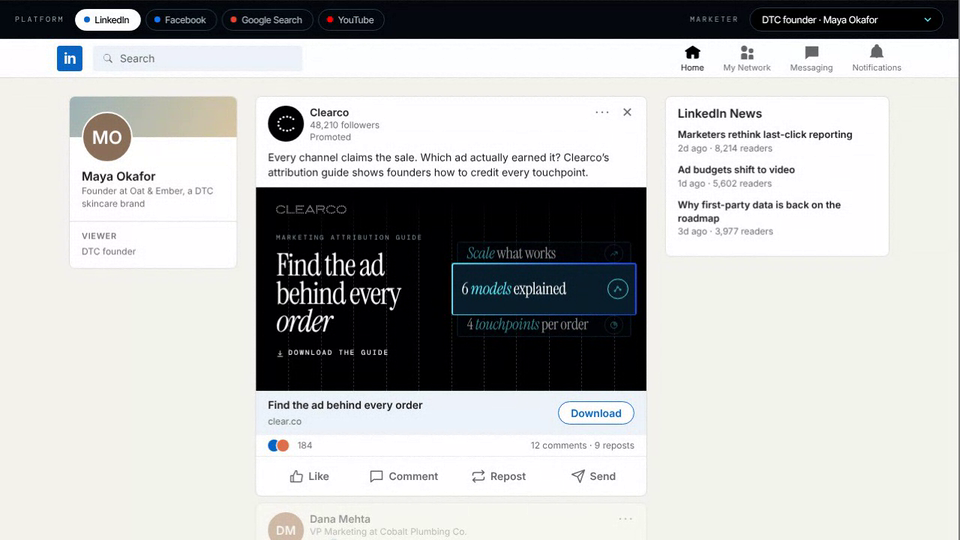
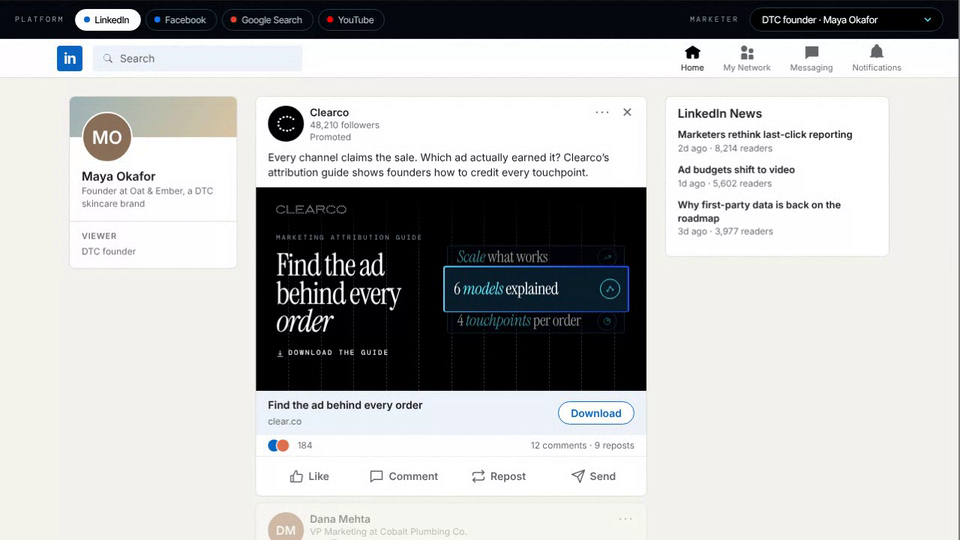
Clearco Paid Ad Pipeline: equal-height value chips nudged left, bigger tighter Learn more text on the Facebook ad
Claude-Session: https://claude.ai/code/session_01AHeBdxfESGkB61WPERPkmT

Changed region(s): [[0.4375, 0.4444, 0.6875, 0.6222]]

diff --git a/clearco-paid-ad-pipeline/index.html b/clearco-paid-ad-pipeline/index.html
@@ -60,22 +60,22 @@ nav.back span{color:#6e6e6e}nav.back b{font-weight:500;color:#fff;overflow:hidde
 .cr .stage{position:absolute;right:0;top:0;width:50cqw;height:100%;container-type:inline-size}
 .cr .stage>*{pointer-events:none}
 /* the three cards as a rolodex: the middle one is the prominent one; each step the bottom card moves up to the middle, the middle to the top, and the top fades out and returns at the bottom */
-.cr .bl{position:absolute;left:0;right:5cqw;top:50%;height:21cqw;margin-top:-10.5cqw;display:flex;align-items:center;background:rgba(4,10,16,.94);border:1px solid #24465c;border-radius:3px;padding:0 17cqw 0 5cqw;color:#fff;opacity:0;transform:translateY(22cqw) scale(.9);transition:transform 1.1s cubic-bezier(.45,0,.15,1),height 1.1s cubic-bezier(.45,0,.15,1),margin-top 1.1s cubic-bezier(.45,0,.15,1),opacity .9s ease,background .9s}
+.cr .bl{position:absolute;left:-4cqw;right:9cqw;top:50%;height:24cqw;margin-top:-12cqw;display:flex;align-items:center;background:rgba(4,10,16,.94);border:1px solid #24465c;border-radius:3px;padding:0 17cqw 0 5cqw;color:#fff;opacity:0;transform:translateY(20cqw) scale(.9);transition:transform 1.1s cubic-bezier(.45,0,.15,1),opacity .9s ease,background .9s}
 .cr .bl>div{transition:transform 1.1s cubic-bezier(.45,0,.15,1)}
-.cr .bl[data-p="0"]{transform:translateY(-14.5cqw) scale(.94);opacity:.55}
-.cr .bl[data-p="0"]>div{transform:translateY(-4cqw)}
-.cr .bl[data-p="1"]{height:27cqw;margin-top:-13.5cqw;transform:none;opacity:1;background:rgba(10,30,44,.97);z-index:2}
-.cr .bl[data-p="2"]{transform:translateY(14.5cqw) scale(.94);opacity:.55}
-.cr .bl[data-p="2"]>div{transform:translateY(4cqw)}
-.cr .bl[data-p="x"]{transform:translateY(-24cqw) scale(.9);opacity:0}
-.cr .bl[data-p="x"]>div{transform:translateY(-4cqw)}
+.cr .bl[data-p="0"]{transform:translateY(-11cqw) scale(.96);opacity:.55}
+.cr .bl[data-p="0"]>div{transform:translateY(-5.5cqw)}
+.cr .bl[data-p="1"]{transform:none;opacity:1;background:rgba(10,30,44,.97);z-index:2}
+.cr .bl[data-p="2"]{transform:translateY(11cqw) scale(.96);opacity:.55}
+.cr .bl[data-p="2"]>div{transform:translateY(5.5cqw)}
+.cr .bl[data-p="x"]{transform:translateY(-22cqw) scale(.9);opacity:0}
+.cr .bl[data-p="x"]>div{transform:translateY(-5.5cqw)}
 .cr .bl[data-p="r"]{transition:none}
 .cr .bl[data-p="r"]>div{transition:none}
 .cr .bl::before{content:"";position:absolute;inset:-1px;border-radius:inherit;padding:1.5px;background:linear-gradient(90deg,#2447f5,#3b8cff 25%,#62e6f3 50%,#3b8cff 75%,#2447f5) 0 0/200% 100%;-webkit-mask:linear-gradient(#000 0 0) content-box,linear-gradient(#000 0 0);-webkit-mask-composite:xor;mask:linear-gradient(#000 0 0) content-box exclude,linear-gradient(#000 0 0);opacity:0;transition:opacity .9s ease;pointer-events:none;animation:flow 6s linear infinite}
 .cr .bl[data-p="1"]::before{opacity:1}
 @keyframes flow{to{background-position:-200% 0}}
 .cr .bl[data-p="1"] .ic{border-color:var(--cyan)}
-.cr .bl[data-p="0"] .ic,.cr .bl[data-p="x"] .ic{top:calc(50% - 4cqw)}.cr .bl[data-p="2"] .ic{top:calc(50% + 4cqw)}
+.cr .bl[data-p="0"] .ic,.cr .bl[data-p="x"] .ic{top:calc(50% - 5.5cqw)}.cr .bl[data-p="2"] .ic{top:calc(50% + 5.5cqw)}
 @media(prefers-reduced-motion:reduce){.cr .bl,.cr .bl::before{transition:none;animation:none}}
 .cr .bl .ic{position:absolute;right:4cqw;top:50%;width:10.5cqw;height:10.5cqw;transform:translateY(-50%);padding:2.5cqw;border:1px solid #2b3d52;border-radius:50%;transition:border-color .9s,top 1.1s cubic-bezier(.45,0,.15,1);color:var(--cyan)}
 .cr .bl strong{display:block;font:400 8.6cqw/1.02 var(--serif);letter-spacing:-.02em}
@@ -90,8 +90,8 @@ nav.back span{color:#6e6e6e}nav.back b{font-weight:500;color:#fff;overflow:hidde
 .cr.sq .lg2{position:absolute;right:6cqw;top:5.4cqw;width:25.7cqw;aspect-ratio:978.8/116.8;height:auto;fill:#fff;z-index:2}
 .cr.sq h4{position:absolute;left:11.4cqw;top:15.6cqw;margin:0;z-index:2;font:400 13.4cqw/.915 var(--serif);letter-spacing:-.04em;white-space:nowrap;color:#fff}
 .cr.sq h4 i{font-style:italic}
-.cr.sq .go2{position:absolute;left:11.7cqw;top:80.6cqw;z-index:2;display:flex;flex-direction:column;gap:1.6cqw;font:400 2cqw/1.5 var(--mono);letter-spacing:.2em;text-transform:uppercase;color:#fff}
-.cr.sq .go2 svg{width:2cqw;height:2cqw}
+.cr.sq .go2{position:absolute;left:11.7cqw;top:80.6cqw;z-index:2;display:flex;flex-direction:column;gap:1.4cqw;font:400 2.7cqw/1.22 var(--mono);letter-spacing:.2em;text-transform:uppercase;color:#fff}
+.cr.sq .go2 svg{width:2.7cqw;height:2.7cqw}
 .fp{position:absolute;left:var(--x);top:0;width:12.1cqw;height:150cqw;transform:translateY(var(--y));animation:fp var(--T) ease-in-out var(--o) infinite;will-change:transform}
 @keyframes fp{0%,100%{transform:translateY(var(--y))}50%{transform:translateY(calc(var(--y) + var(--d)))}}
 .fp .bd{position:absolute;inset:0;border-radius:99px 99px 0 0;background:linear-gradient(180deg,#3b8cff 0,#3b8cff 10cqw,rgba(98,230,243,.55) 45cqw,rgba(98,230,243,.06) 100%)}
